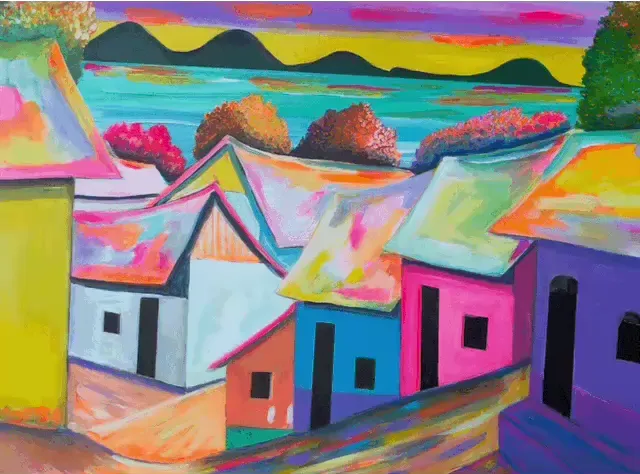
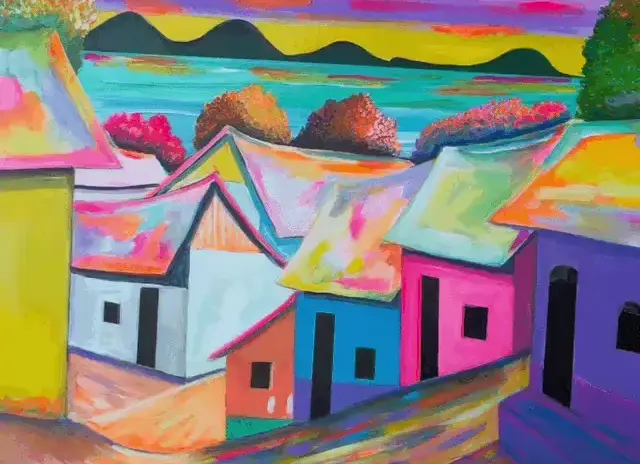
installed fonts for self hosting, slightly cropped two more photos, updated deprated component name

diff --git a/src/styles/global.css b/src/styles/global.css
@@ -1,28 +1,25 @@
-/* Google Fonts - must be first */
-@import url('https://fonts.googleapis.com/css2?family=Playfair+Display:ital,wght@0,400;0,500;0,600;0,700;1,400;1,500&family=Inter:wght@300;400;500;600&display=swap');
-
 @import "tailwindcss";
 
 /* Custom Properties - Design System */
 :root {
   /* Backgrounds */
-  --bg-primary: #FAF8F5;
-  --bg-secondary: #F5F3F0;
-  --bg-card: #FFFFFF;
+  --bg-primary: #faf8f5;
+  --bg-secondary: #f5f3f0;
+  --bg-card: #ffffff;
 
   /* Text */
-  --text-primary: #2D2D2D;
-  --text-secondary: #6B6B6B;
-  --text-muted: #9A9A9A;
+  --text-primary: #2d2d2d;
+  --text-secondary: #6b6b6b;
+  --text-muted: #9a9a9a;
 
   /* Accents (derived from paintings) */
-  --accent-terracotta: #C4704B;
-  --accent-olive: #6B7F5E;
-  --accent-gold: #B8965A;
+  --accent-terracotta: #c4704b;
+  --accent-olive: #6b7f5e;
+  --accent-gold: #b8965a;
 
   /* Borders */
-  --border-subtle: #E5E2DD;
-  --border-medium: #D4D0C8;
+  --border-subtle: #e5e2dd;
+  --border-medium: #d4d0c8;
 
   /* Shadows */
   --shadow-soft: 0 2px 8px rgba(0, 0, 0, 0.06);
@@ -30,8 +27,8 @@
   --shadow-lift: 0 8px 24px rgba(0, 0, 0, 0.12);
 
   /* Typography */
-  --font-serif: 'Playfair Display', Georgia, serif;
-  --font-sans: 'Inter', system-ui, sans-serif;
+  --font-serif: "Playfair Display Variable", Georgia, serif;
+  --font-sans: "Inter Variable", system-ui, sans-serif;
 
   /* Transitions */
   --transition-fast: 150ms ease;
@@ -53,7 +50,12 @@ body {
 }
 
 /* Typography */
-h1, h2, h3, h4, h5, h6 {
+h1,
+h2,
+h3,
+h4,
+h5,
+h6 {
   font-family: var(--font-serif);
   font-weight: 500;
   line-height: 1.2;
@@ -61,11 +63,13 @@ h1, h2, h3, h4, h5, h6 {
 }
 
 /* Smooth transitions for interactive elements */
-a, button {
-  transition: color var(--transition-fast),
-              background-color var(--transition-fast),
-              transform var(--transition-fast),
-              box-shadow var(--transition-fast);
+a,
+button {
+  transition:
+    color var(--transition-fast),
+    background-color var(--transition-fast),
+    transform var(--transition-fast),
+    box-shadow var(--transition-fast);
 }
 
 /* Focus styles for accessibility */
@@ -103,8 +107,12 @@ a, button {
 
 /* Animation keyframes */
 @keyframes fadeIn {
-  from { opacity: 0; }
-  to { opacity: 1; }
+  from {
+    opacity: 0;
+  }
+  to {
+    opacity: 1;
+  }
 }
 
 @keyframes fadeInUp {
@@ -154,8 +162,9 @@ a, button {
 
 /* Image hover effect for gallery */
 .gallery-image {
-  transition: transform var(--transition-medium),
-              box-shadow var(--transition-medium);
+  transition:
+    transform var(--transition-medium),
+    box-shadow var(--transition-medium);
 }
 
 .gallery-image:hover {
@@ -182,13 +191,21 @@ a, button {
 }
 
 @keyframes fade-out {
-  from { opacity: 1; }
-  to { opacity: 0; }
+  from {
+    opacity: 1;
+  }
+  to {
+    opacity: 0;
+  }
 }
 
 @keyframes fade-in {
-  from { opacity: 0; }
-  to { opacity: 1; }
+  from {
+    opacity: 0;
+  }
+  to {
+    opacity: 1;
+  }
 }
 
 /* Reduced motion - respect user preferences */
